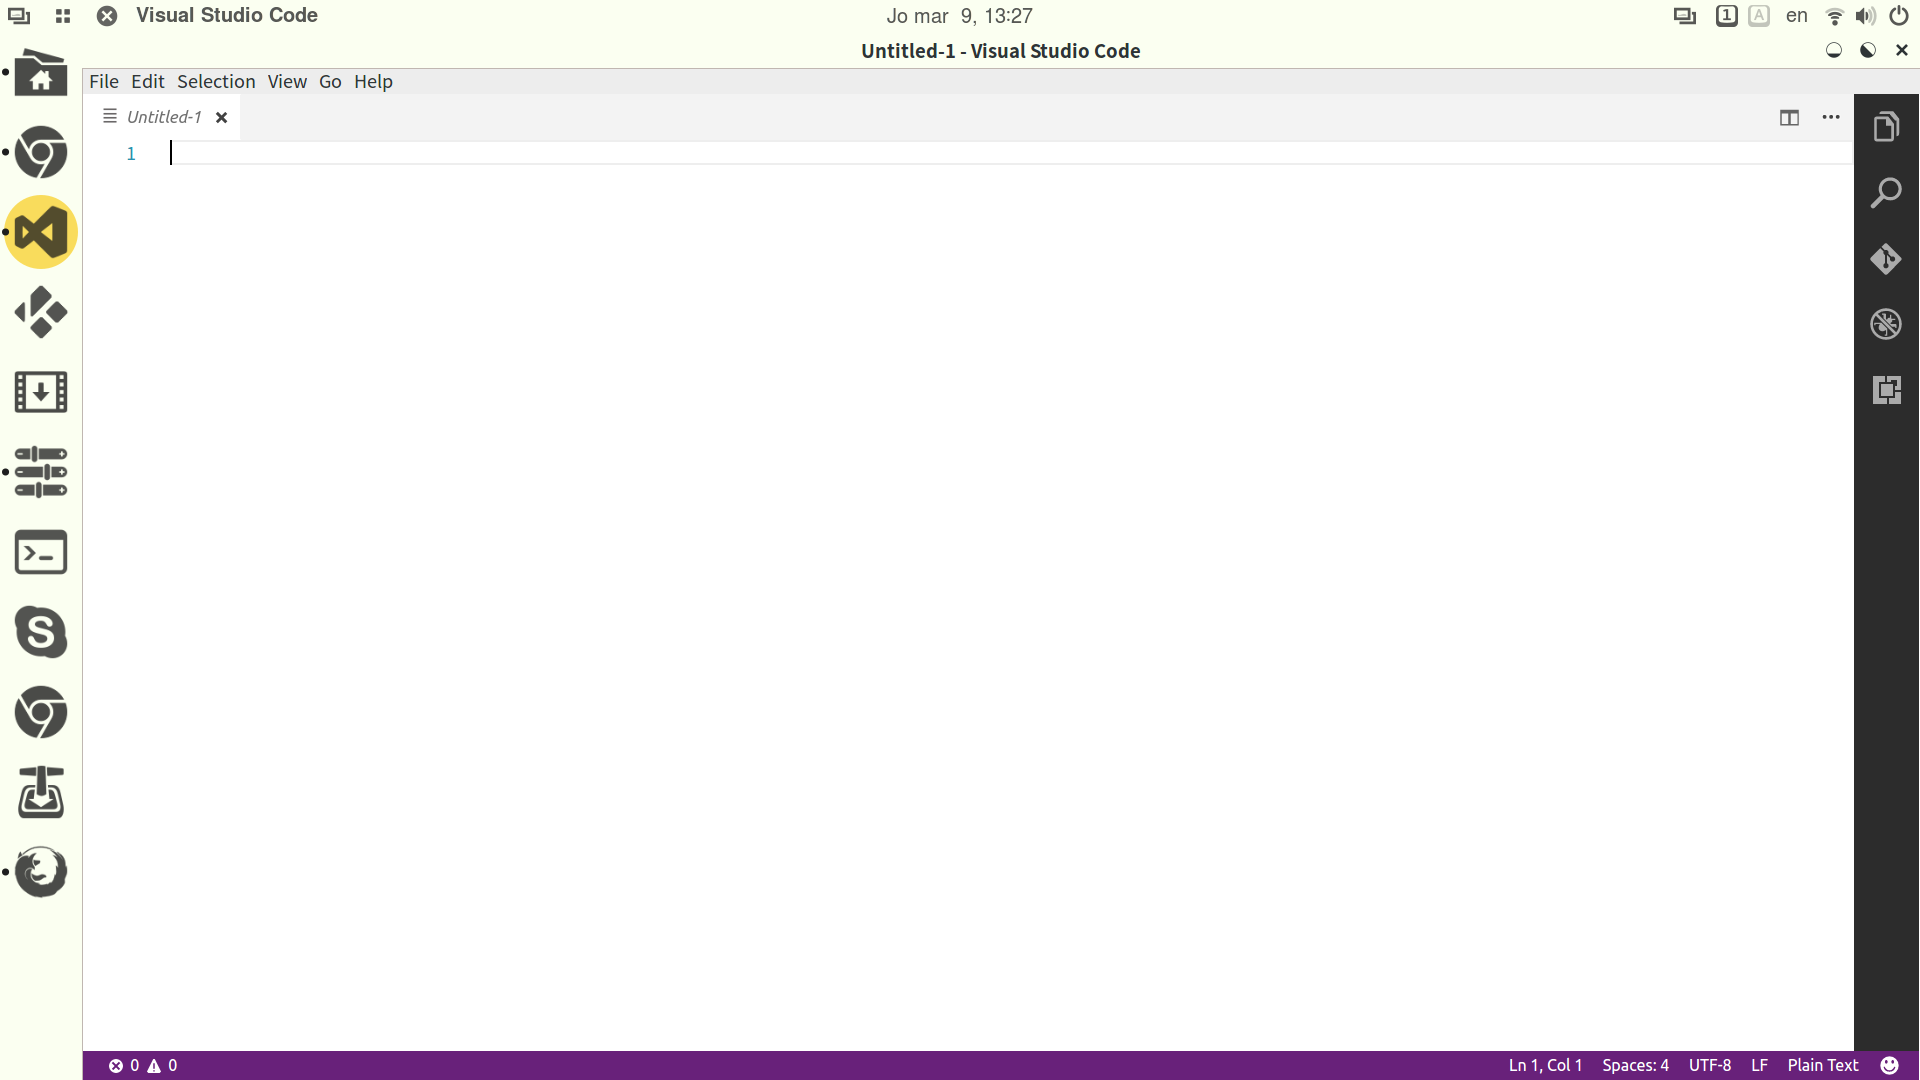
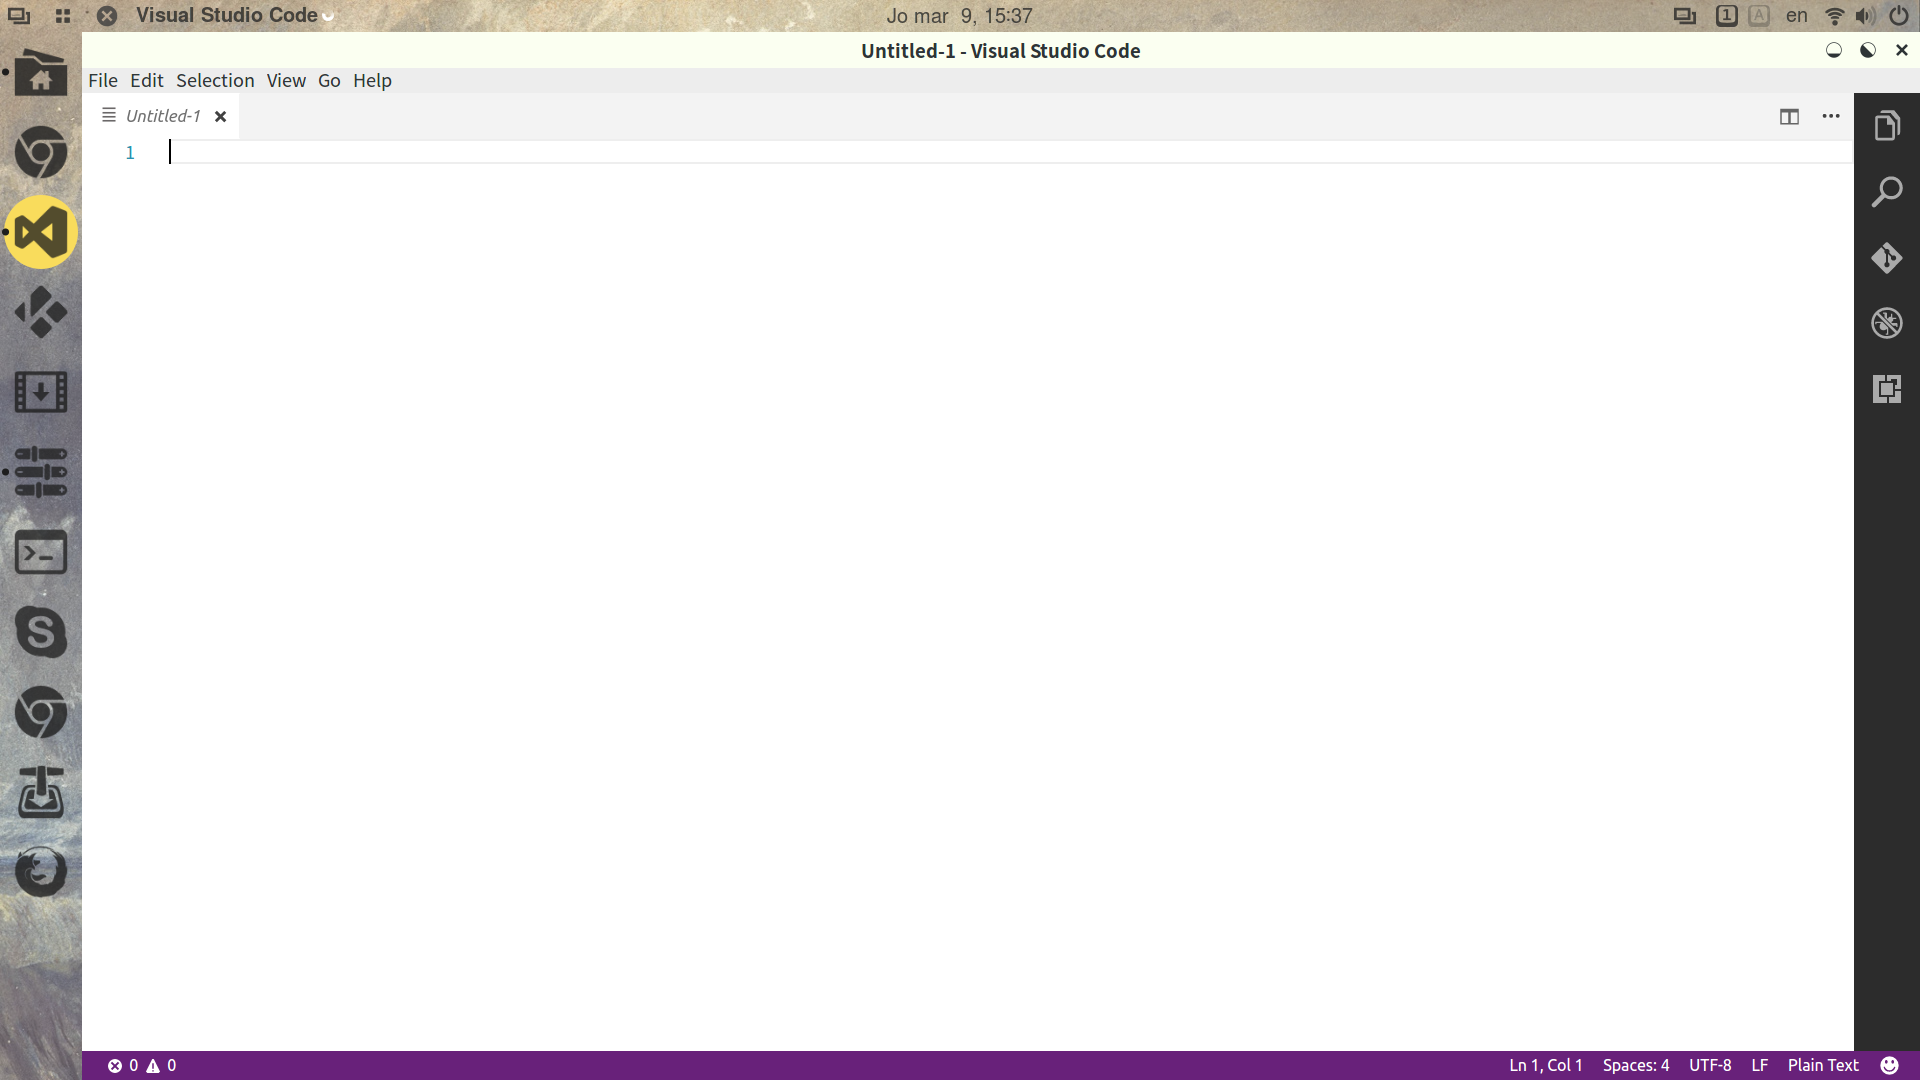
transparency tweaks, one background left

diff --git a/.config/gtk-3.0/gtk.css b/.config/gtk-3.0/gtk.css
@@ -1,6 +1,7 @@
 .window-frame {
 	border-radius: 0;
-	border-left: 1px solid #C0B7B1;
+	/*border-left: 10px solid #ffbb7c;*/
+	border-top: 0 none;
 }
 
 .window-frame.maximized {
@@ -9,17 +10,25 @@
 
 .titlebar {
 	border-radius: 0;
-	border-bottom: 1px solid #C0B7B1;
+	/*border-bottom: 1px solid #C0B7B1;*/
+	border-bottom: 0 none;
+	border-left: 0 none;
+	/*border-bottom: 10px solid #ffbb7c;*/
 }
 
 .header-bar {
   background-image: none;
-  background-color: #FBFFF1;
+  background-color: rgb(251,255,241);
+  /*background-color: transparent;  */
   box-shadow: none;
 }
 
 
 /*
+ F9DC5C
+ 54eaff
+ 27e1fc
+ d9ff7c
 d1cfce
 c8c8c5
 5dc4e6

diff --git a/.local/share/themes/slimAdwaita/gnome-shell/gnome-shell.css b/.local/share/themes/slimAdwaita/gnome-shell/gnome-shell.css
@@ -684,7 +684,7 @@ StEntry:insensitive,
 
 #panel {
     background-gradient-direction:none;
-     background-color: #FBFFF1;
+     background-color: rgba(251,255,241,0.30);
     border-top:0px;border-right:0px;border-left:0px;
     font-weight: bold;
     height: 32px;}

diff --git a/.local/share/gnome-shell/extensions/dash-to-dock@micxgx.gmail.com/stylesheet.css b/.local/share/gnome-shell/extensions/dash-to-dock@micxgx.gmail.com/stylesheet.css
@@ -110,7 +110,7 @@
 }
 
 #dashtodockContainer.dashtodock #dash {
-    background-color: #FBFFF1;
+    background-color: rgba(251,255,241,0.30);
 	/*border: 1px solid rgba(48,48,48,0.75);*/
 }
 
